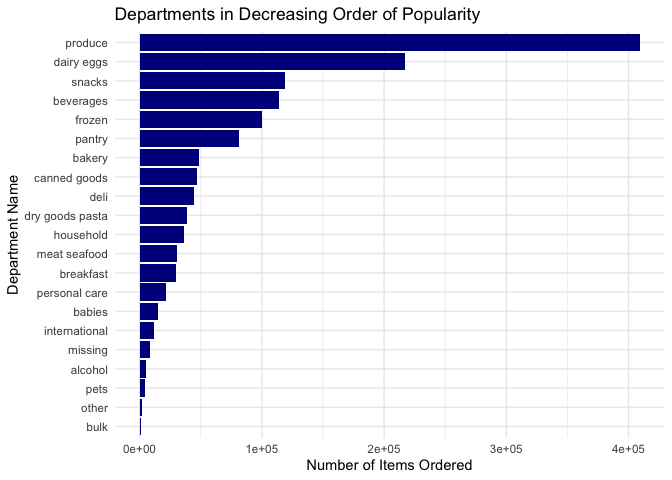
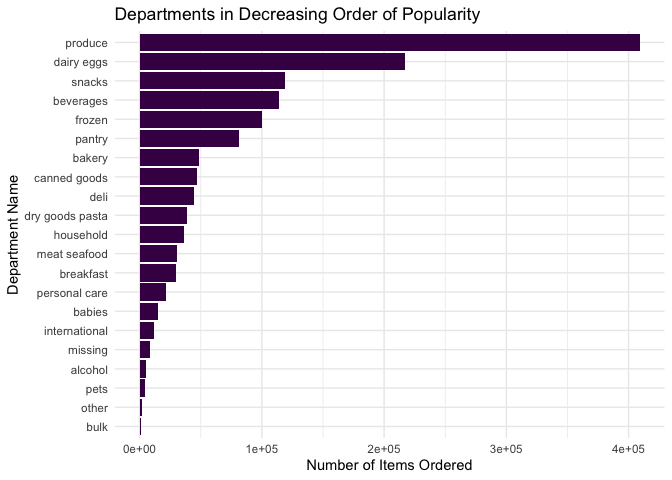
cleaning up code; refining comments

Changed region(s): [[0.1875, 0.0625, 0.9688, 0.8438]]

diff --git a/p8105_hw3_smm2350.md b/p8105_hw3_smm2350.md
@@ -23,32 +23,31 @@ for a total of 20769255 data points. Key variables include `order_id`,
 `order_hour_of_day` and `days_since_prior_order` (ranging from 0 to 30)
 as well as `product_name` and associated `aisle` and `department`.
 
-Initial analysis shows `produce` to be the most frequently ordered-from
-department, as visualized below:
+Initial exploratory analysis shows `produce` to be the most frequently
+ordered-from department, as visualized below:
 
 ``` r
 instacart %>%
   count(department) %>%
   arrange(desc(n)) %>%
   ggplot(aes(forcats::fct_reorder(department, (n)), n)) +
-  geom_col(fill="darkblue") +
+  geom_col(fill="#440154FF") +
   coord_flip() +
   labs(
     title = "Departments in Decreasing Order of Popularity",
     x = "Department Name",
-    y = "Number of Items Ordered",
-  )
+    y = "Number of Items Ordered")
 ```
 
 ![](p8105_hw3_smm2350_files/figure-gfm/exploration-1.png)<!-- -->
 
-Let’s also investigate the busiest hour of the day for orders, on
-average.
+Further exploratory analysis let’s us investigate the busiest hour of
+the day for orders, on average.
 
 ``` r
 instacart %>%
   ggplot(aes(x = order_hour_of_day)) +
-  geom_histogram(binwidth = .5, fill = "darkblue") +
+  geom_histogram(binwidth = .5, fill = "#39568CFF") +
   labs(
     title = "Order Volume Over 24-Hour Day",
     x = "Hour of Day",
@@ -98,7 +97,7 @@ instacart %>%
   count(aisle) %>%
   filter(n > 10000) %>%
   ggplot(aes(forcats::fct_reorder(aisle, (n)), n)) +
-  geom_col(fill = "darkblue") +
+  geom_col(fill = "#1F968BFF") +
   coord_flip() +
   labs(
     title = "Number of items ordered per aisle",
@@ -203,7 +202,8 @@ brfss_tidy = brfss_smart2010 %>%
 #### Let’s determine which states were observed at 7+ locations in 2002 and 2010.
 
 ``` r
-brfss_tidy %>%
+brfss_2002 = 
+  brfss_tidy %>%
   select(year, locationabbr, locationdesc) %>%
   filter(year == 2002) %>%
   distinct() %>%
@@ -211,21 +211,9 @@ brfss_tidy %>%
   filter(n() >= 7) %>%
   select(locationabbr) %>%
   distinct()
-```
 
-    ## # A tibble: 6 × 1
-    ## # Groups:   locationabbr [6]
-    ##   locationabbr
-    ##   <chr>       
-    ## 1 CT          
-    ## 2 FL          
-    ## 3 MA          
-    ## 4 NJ          
-    ## 5 NC          
-    ## 6 PA
-
-``` r
-brfss_tidy %>%
+brfss_2010 = 
+  brfss_tidy %>%
   select(year, locationabbr, locationdesc) %>%
   filter(year == 2010) %>%
   distinct() %>%
@@ -235,29 +223,9 @@ brfss_tidy %>%
   distinct() 
 ```
 
-    ## # A tibble: 14 × 1
-    ## # Groups:   locationabbr [14]
-    ##    locationabbr
-    ##    <chr>       
-    ##  1 CA          
-    ##  2 CO          
-    ##  3 FL          
-    ##  4 MD          
-    ##  5 MA          
-    ##  6 NE          
-    ##  7 NJ          
-    ##  8 NY          
-    ##  9 NC          
-    ## 10 OH          
-    ## 11 PA          
-    ## 12 SC          
-    ## 13 TX          
-    ## 14 WA
-
-In 2002, `CT`, `FL`, `MA`, `NJ`, `NC`, and `PA` were observed at 7 or
-more locations. In 2010, `CA`, `CO`, `FL`, `MD`, `MA`, `NE`, `NJ`, `NY`,
-`NC`, `OH`, `PA`, `SC`, `TX`, and `WA` were observed at 7 or more
-locations.
+In 2002, CT, FL, MA, NJ, NC, PA were observed at 7 or more locations. In
+2010, CA, CO, FL, MD, MA, NE, NJ, NY, NC, OH, PA, SC, TX, WA were
+observed at 7 or more locations.
 
 #### I will construct a dataset that is limited to Excellent responses, and contains, year, state, and a variable that averages the data\_value across locations within a state. I will also make a “spaghetti” plot of this average value over time within a state.
 
@@ -286,7 +254,8 @@ df_excellent %>%
 
 ![](p8105_hw3_smm2350_files/figure-gfm/brfss_excellent-1.png)<!-- -->
 
-The state with the lowest average data value over the years is `WY`.
+Among `excellent` responses, the lowest average state data value over
+the years was `WV` at 11.5 while the highest was `UT` at 29.46.
 
 #### I will make a two-panel plot showing, for the years 2006, and 2010, distribution of data\_value for responses (“Poor” to “Excellent”) among locations in NY State.
 
@@ -340,17 +309,6 @@ accel_df = read_csv("accel_data.csv") %>%
     values_to = "count")
 ```
 
-    ## Rows: 35 Columns: 1443
-
-    ## ── Column specification ────────────────────────────────────────────────────────
-    ## Delimiter: ","
-    ## chr    (1): day
-    ## dbl (1442): week, day_id, activity.1, activity.2, activity.3, activity.4, ac...
-
-    ## 
-    ## ℹ Use `spec()` to retrieve the full column specification for this data.
-    ## ℹ Specify the column types or set `show_col_types = FALSE` to quiet this message.
-
 The tidied `accel_df` contains 50400 rows (or observations), one for
 every `minute` of every `day` from the 5 `week` period of accelerometer
 data collection. The dataset’s 6 variables include the following: week,
@@ -379,7 +337,8 @@ knitr::kable(daily_df, caption = "Total Daily Activity")
 
 Total Daily Activity
 
-TRENDS?
+No significant activity trends appear. The maximum daily activity was
+4.45366^{5}. The minimum daily activity was 4.45366^{5}.
 
 #### 24-hour plot
 
@@ -387,10 +346,10 @@ I will make a single-panel plot that shows the 24-hour activity time
 courses for each day and use color to indicate day of the week.
 
 ``` r
-panel_df = accel_df %>%
-  mutate(week = paste("week", week)) %>%
+accel_df %>%
+  group_by(day_id) %>%
   ggplot(aes(x = minute, y = count, color = day)) +
-  geom_point(size = .5) +
+  geom_point() +
   geom_line() +
   labs(
     title = "24-hour accelerometer activity time courses by day",
@@ -400,4 +359,7 @@ panel_df = accel_df %>%
    theme(legend.position = "right")
 ```
 
-DESCRIBE!
+![](p8105_hw3_smm2350_files/figure-gfm/accel_24_plot-1.png)<!-- -->
+
+Based on this graph, it appears the highest activity daily count was on
+a `Wednesday`, followed by a `Sunday`.
